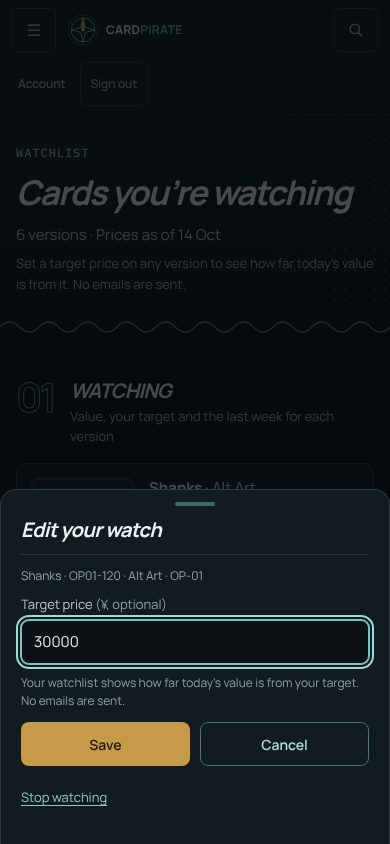
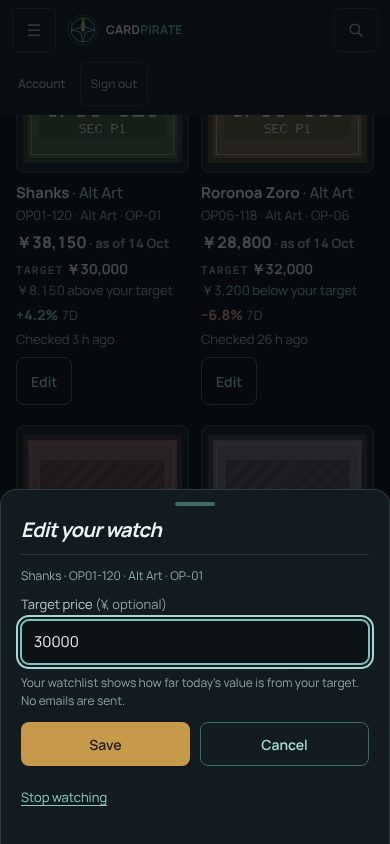
Watchlist as art-first tiles; Edit names the card; drop the stale admin wishlist link
Visual review round 1: rows led with numbers and a small thumbnail. The
watchlist now uses the /collection tile (full uncropped art, then name,
value, target and distance, 7D, freshness, Edit pinned to the bottom).

Claude-Session: https://claude.ai/code/session_01XqUMKFewN72BqBjVaeurG1

diff --git a/apps/web/src/app/watchlist/page.tsx b/apps/web/src/app/watchlist/page.tsx
@@ -94,9 +94,9 @@ export default async function WatchlistPage() {
       {exact.length > 0 && (
         <section aria-labelledby="watching" className={styles.section}>
           <AccountChapter id="watching" number="01" title="Watching">
-            Value, your target and the last week for each version
+            Today’s value, your target and the last 7 days for each version
           </AccountChapter>
-          <ul className={watch.rows} data-testid="watchlist-rows">
+          <ul className={watch.grid} data-testid="watchlist-rows">
             {exact.map((entry) => (
               <WatchRow key={entry.id} entry={entry} print={prints.get(entry.card_print_id as number) ?? null} list={watchlist} asOf={asOf} now={now} />
             ))}
@@ -196,8 +196,8 @@ function WatchRow({
   const change = watchChange(entry, list);
   const priced = entry.value_jpy !== null;
   return (
-    <li className={watch.row} data-testid="watchlist-row">
-      <Link href={href} className={watch.art} tabIndex={-1} aria-hidden="true">
+    <li className={watch.tile} data-testid="watchlist-row">
+      <Link href={href} className={styles.tileArt} tabIndex={-1} aria-hidden="true">
         <CardImageFrame
           imageUrl={print?.imageUrl ?? null}
           alt={`${name} (${code})`}
@@ -209,7 +209,7 @@ function WatchRow({
           geometry={print?.imageGeometry ?? null}
         />
       </Link>
-      <div className={watch.body}>
+      <div className={`${styles.tileBody} ${watch.body}`}>
         <h3 className={styles.tileName}>
           <Link href={href}>
             {name}
@@ -218,55 +218,50 @@ function WatchRow({
         </h3>
         <p className={styles.meta}>{label}</p>
 
-        <dl className={watch.facts}>
-          <div className={watch.fact}>
-            <dt>Value</dt>
-            <dd>
-              {priced ? (
-                <>
-                  <span className={styles.tileValue}>{yen(entry.value_jpy as number)}</span>
-                  {asOf && <span className={styles.meta}> as of {asOf}</span>}
-                </>
-              ) : (
-                <span className={styles.noPrice}>No price yet</span>
-              )}
-            </dd>
-          </div>
-          <div className={watch.fact}>
-            <dt>Target</dt>
-            <dd>
-              {entry.target_jpy !== null ? <span className={watch.target}>{yen(entry.target_jpy)}</span> : <span className={styles.meta}>No target set</span>}
-              {distance && (
-                <span className={watch.distance} data-testid="target-distance" data-side={(entry.target_gap_jpy ?? 0) > 0 ? "above" : "below"}>
-                  {distance}
-                </span>
-              )}
-            </dd>
-          </div>
-          <div className={watch.fact}>
-            <dt>7D</dt>
-            <dd>
-              {change.kind === "change" ? (
-                <span className={styles.tileChange} data-direction={change.direction}>{change.pct}</span>
-              ) : (
-                <span className={styles.tileChange} title={change.reason}>
-                  — <span className={styles.meta}>{change.reason}</span>
-                </span>
-              )}
-            </dd>
-          </div>
-        </dl>
+        <p className={styles.tileValue}>
+          {priced ? (
+            <>
+              <span>{yen(entry.value_jpy as number)}</span>
+              {asOf && <span className={styles.meta}> · as of {asOf}</span>}
+            </>
+          ) : (
+            <span className={styles.noPrice}>No price yet</span>
+          )}
+        </p>
 
-        <div className={watch.foot}>
-          <p className={styles.meta} data-testid="checked">
-            {entry.checked_at ? <time dateTime={entry.checked_at}>{checkedAgo(entry.checked_at, now)}</time> : checkedAgo(null, now)}
+        <div className={watch.target}>
+          <p>
+            <span className={watch.label}>Target</span>{" "}
+            {entry.target_jpy !== null ? <span className={watch.targetValue}>{yen(entry.target_jpy)}</span> : <span className={styles.meta}>Not set</span>}
           </p>
+          {distance && (
+            <p className={watch.distance} data-testid="target-distance" data-side={(entry.target_gap_jpy ?? 0) > 0 ? "above" : "below"}>
+              {distance}
+            </p>
+          )}
+        </div>
+
+        {change.kind === "change" ? (
+          <p className={styles.tileChange} data-direction={change.direction}>
+            {change.pct} <span className={styles.meta}>7D</span>
+          </p>
+        ) : (
+          <p className={styles.tileChange} title={change.reason}>
+            — <span className={styles.meta}>7D: {change.reason}</span>
+          </p>
+        )}
+
+        <p className={styles.meta} data-testid="checked">
+          {entry.checked_at ? <time dateTime={entry.checked_at}>{checkedAgo(entry.checked_at, now)}</time> : checkedAgo(null, now)}
+        </p>
+
+        <div className={`${styles.tileActions} ${watch.actions}`}>
           <WatchEditSheet
             entryId={entry.id}
             cardPrintId={entry.card_print_id}
             versionLabel={`${name}${label ? ` · ${label}` : ""}`}
             targetJpy={entry.target_jpy}
-            buttonDescription={`Edit ${name}${label ? `, ${label}` : ""}`}
+            buttonDescription={`Edit target for ${name}${label ? `, ${label}` : ""}`}
           />
         </div>
       </div>

diff --git a/apps/web/src/components/collection/Watchlist.module.css b/apps/web/src/components/collection/Watchlist.module.css
@@ -1,64 +1,49 @@
-/* /watchlist (Collector v1 S8) on top of Collection.module.css: one row per
-   watched version, art first, then value, target and the 7D change. Being
-   under a target is quiet teal, never a green "buy" signal. */
-.rows {
+/* /watchlist (Collector v1 S8) on top of Collection.module.css: the same
+   art-first tiles as /collection, with the value, the target and how far it
+   is from it, and the last 7 days. Being under a target is quiet teal, never
+   a green "buy" signal. */
+.grid {
   display: grid;
-  gap: 0.75rem;
+  grid-template-columns: minmax(0, 1fr);
+  gap: 1.5rem 1rem;
 }
 
-.row {
-  display: grid;
-  grid-template-columns: 5.5rem minmax(0, 1fr);
-  gap: 0.875rem;
-  align-items: start;
-  padding: 0.875rem;
-  border: 1px solid var(--rule);
-  border-radius: 10px;
-  background: var(--map);
+.tile {
+  display: flex;
+  flex-direction: column;
+  gap: 0.625rem;
   min-width: 0;
 }
 
-.art {
-  display: block;
-}
-
+/* Edit sits on one line across a row of tiles, whatever the text above it. */
 .body {
-  display: grid;
+  display: flex;
+  flex: 1;
+  flex-direction: column;
   gap: 0.25rem;
-  min-width: 0;
 }
 
-.facts {
-  display: grid;
-  gap: 0.5rem;
-  margin-top: 0.5rem;
+.actions {
+  margin-top: auto;
+  padding-top: 0.25rem;
 }
 
-.fact {
+.target {
   display: grid;
   gap: 0.125rem;
-  min-width: 0;
+  color: var(--body);
+  font-size: 0.875rem;
+  line-height: 1.5;
 }
 
-.fact dt {
+.label {
   font: 500 0.6875rem/1.4 var(--font-mono);
   letter-spacing: 0.12em;
   text-transform: uppercase;
   color: var(--subdued);
 }
 
-.fact dd {
-  display: flex;
-  flex-wrap: wrap;
-  align-items: baseline;
-  gap: 0 0.375rem;
-  min-width: 0;
-  color: var(--body);
-  font-size: 0.9375rem;
-  overflow-wrap: anywhere;
-}
-
-.target {
+.targetValue {
   color: var(--parchment);
   font-weight: 600;
   font-variant-numeric: tabular-nums;
@@ -74,41 +59,22 @@
   color: var(--up-ink);
 }
 
-.foot {
-  display: flex;
-  flex-wrap: wrap;
-  align-items: center;
-  justify-content: space-between;
-  gap: 0.5rem 0.75rem;
-  margin-top: 0.5rem;
-}
-
 @media (min-width: 360px) {
-  .row {
-    grid-template-columns: 6.5rem minmax(0, 1fr);
+  .grid {
+    grid-template-columns: repeat(2, minmax(0, 1fr));
+    gap: 1.25rem 0.75rem;
   }
 }
 
 @media (min-width: 640px) {
-  .row {
-    grid-template-columns: 8rem minmax(0, 1fr);
-    gap: 1.25rem;
-    padding: 1rem 1.25rem;
-  }
-  .facts {
+  .grid {
     grid-template-columns: repeat(3, minmax(0, 1fr));
-    gap: 0.75rem;
-    align-items: start;
-  }
-  .fact dd {
-    flex-direction: column;
-    align-items: flex-start;
+    gap: 1.75rem 1rem;
   }
 }
 
-@media (min-width: 1100px) {
-  .rows {
-    grid-template-columns: repeat(2, minmax(0, 1fr));
-    gap: 1rem;
+@media (min-width: 1024px) {
+  .grid {
+    grid-template-columns: repeat(5, minmax(0, 1fr));
   }
 }

diff --git a/apps/web/src/app/watchlist/page.test.tsx b/apps/web/src/app/watchlist/page.test.tsx
@@ -97,10 +97,10 @@ describe("/watchlist (Collector v1 S8)", () => {
     readPrint.mockResolvedValue(null);
     await renderPage();
     const shanks = rowFor("Shanks");
-    expect(shanks).toHaveTextContent("￥31,200 as of 14 Oct");
+    expect(shanks).toHaveTextContent("￥31,200 · as of 14 Oct");
     expect(within(shanks).getByTestId("target-distance")).toHaveTextContent("￥1,200 above your target");
     expect(within(rowFor("Roronoa Zoro")).getByTestId("target-distance")).toHaveTextContent("￥3,200 below your target");
-    expect(rowFor("Sogeking")).toHaveTextContent("No target set");
+    expect(rowFor("Sogeking")).toHaveTextContent("Target Not set");
   });
 
   it("shows an unpriced version as unpriced, never ¥0, with no distance", async () => {
@@ -122,9 +122,9 @@ describe("/watchlist (Collector v1 S8)", () => {
     expect(rowFor("Shanks")).toHaveTextContent("+4.2%");
     expect(rowFor("Roronoa Zoro")).toHaveTextContent("−6.8%");
     const sogeking = rowFor("Sogeking");
-    expect(sogeking).toHaveTextContent("— Price sources changed this week");
+    expect(sogeking).toHaveTextContent("— 7D: Price sources changed this week");
     expect(sogeking).not.toHaveTextContent("0%");
-    expect(rowFor("Sanji")).toHaveTextContent("— No price today");
+    expect(rowFor("Sanji")).toHaveTextContent("— 7D: No price today");
   });
 
   it("says when a source was last checked, and unknown when the API does not know", async () => {
@@ -158,7 +158,7 @@ describe("/watchlist (Collector v1 S8)", () => {
     );
     readPrint.mockResolvedValue(null);
     await renderPage();
-    expect(rowFor("Shanks")).toHaveTextContent("— Prices missing on 9 Oct");
+    expect(rowFor("Shanks")).toHaveTextContent("— 7D: Prices missing on 9 Oct");
   });
 
   it("edits the target in a sheet and refreshes from the API", async () => {
@@ -168,7 +168,7 @@ describe("/watchlist (Collector v1 S8)", () => {
     const fetchMock = vi.fn().mockResolvedValue(new Response(JSON.stringify({ id: 1 }), { status: 200, headers: { "Content-Type": "application/json" } }));
     vi.stubGlobal("fetch", fetchMock);
     await renderPage();
-    fireEvent.click(screen.getByRole("button", { name: /^Edit Shanks/ }));
+    fireEvent.click(screen.getByRole("button", { name: /^Edit target for Shanks/ }));
     const dialog = screen.getByRole("dialog", { name: "Edit your watch" });
     const target = within(dialog).getByLabelText(/Target price/) as HTMLInputElement;
     expect(target.value).toBe("30000");

diff --git a/apps/web/src/app/admin/(protected)/file-jobs/page.tsx b/apps/web/src/app/admin/(protected)/file-jobs/page.tsx
@@ -277,12 +277,6 @@ export default function FileJobsPage() {
               >
                 Collection
               </Link>
-              <Link
-                href="/wishlist"
-                className="text-sky-400 underline decoration-sky-800 underline-offset-2 hover:text-sky-300"
-              >
-                Wishlist
-              </Link>
             </div>
           </div>
         )}

diff --git a/apps/web/src/components/collection/Collection.module.css b/apps/web/src/components/collection/Collection.module.css
@@ -578,6 +578,6 @@
 .tileName a,
 .moverName a {
   display: block;
-  padding-block: 0.75rem;
-  margin-block: -0.75rem;
+  padding-block: 0.8125rem;
+  margin-block: -0.8125rem;
 }
